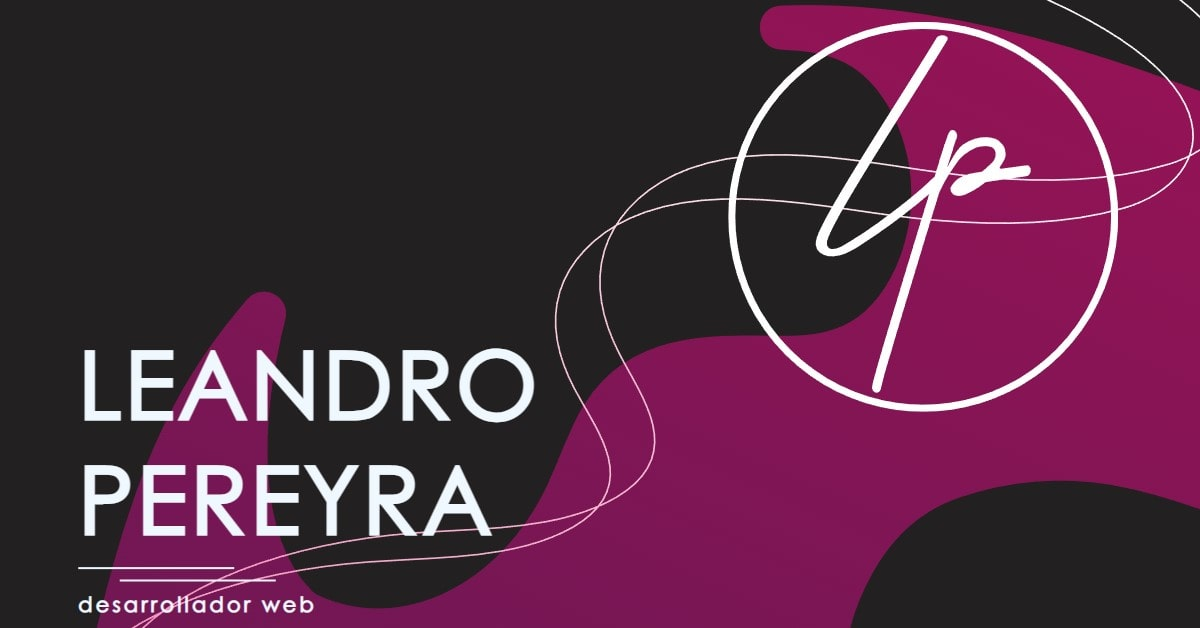
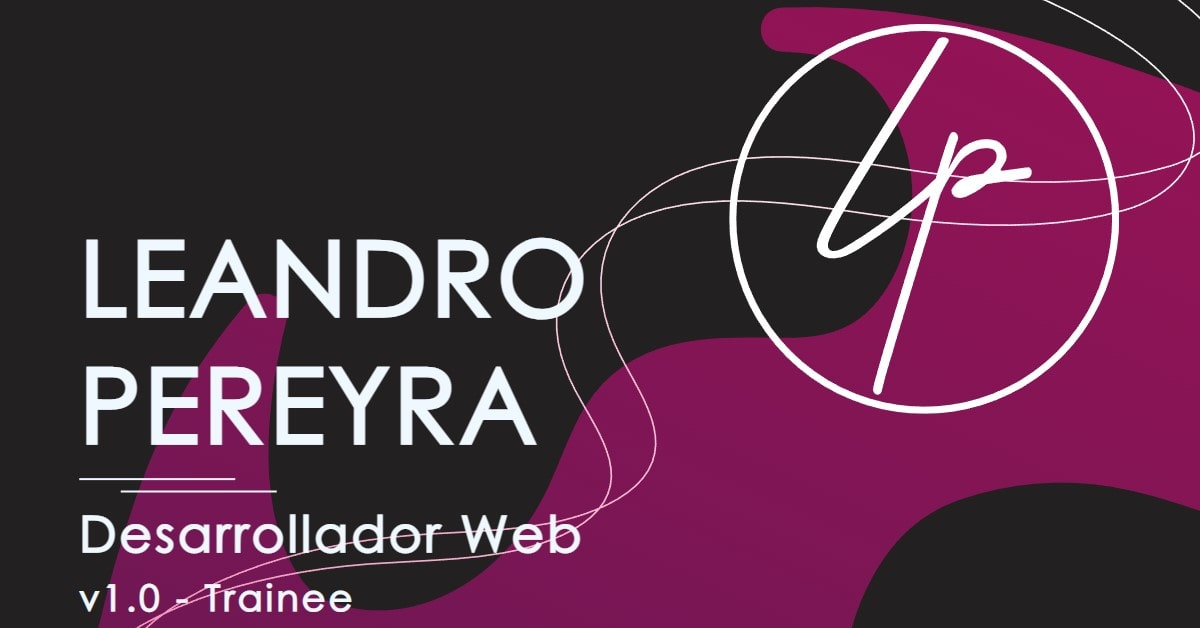
Share Picture

diff --git a/src/components/Header.js b/src/components/Header.js
@@ -14,7 +14,8 @@ const Header = () => {
           <div className="header_lines-container_firstLine"></div>
           <div className="header_lines-container_secondLine"></div>
         </div>
-        <h3 className="header_subtitle">desarrollador web</h3>
+        <h3 className="header_subtitle">Desarrollador Web</h3>
+        <h3 className="header_level">v1.0 - Trainee</h3>
       </div>
       <div className="header_image-container">
         <img src={img.logo} alt="logo" />

diff --git a/src/css/header.css b/src/css/header.css
@@ -33,6 +33,11 @@
     font-size: 1rem;
 }
 
+.header_level {
+    font-size: 0.8rem;
+    margin-top: 1rem;
+}
+
 .header_lines-container_firstLine,
 .header_lines-container_secondLine {
     height: 3px;
@@ -58,6 +63,10 @@
 
     .header_subtitle {
         font-size: 2rem;
+    }
+
+    .header_level {
+        font-size: 1.5rem;
     }
 
     .header_lines-container_firstLine,
